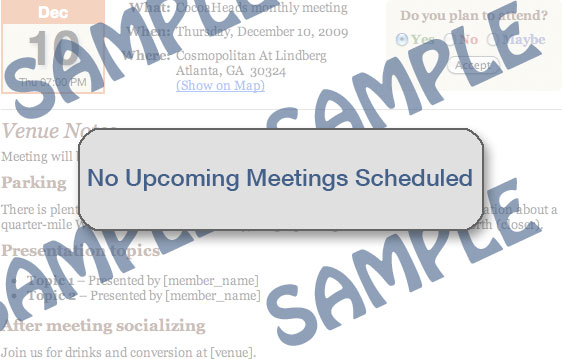
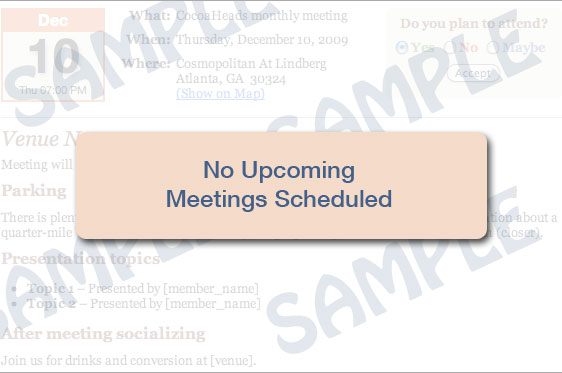
Improved design of meeting blank state image.

diff --git a/public/stylesheets/application.css b/public/stylesheets/application.css
@@ -223,6 +223,10 @@ td {
 	clear: left;
 }
 
+#meeting_blank_state {
+	margin-bottom: 0.5em;
+}
+
 .post_title {
 	color: #5d2a11;
 	margin-top: 0;
